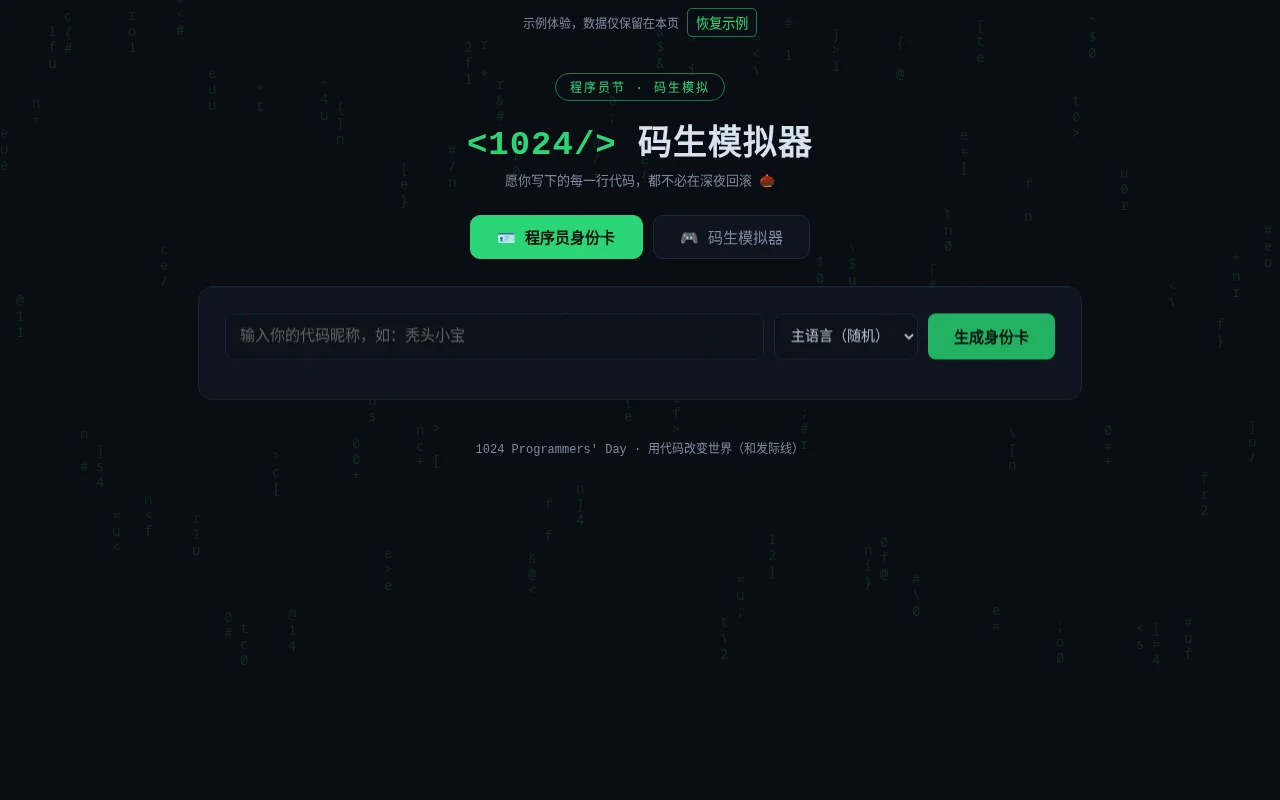
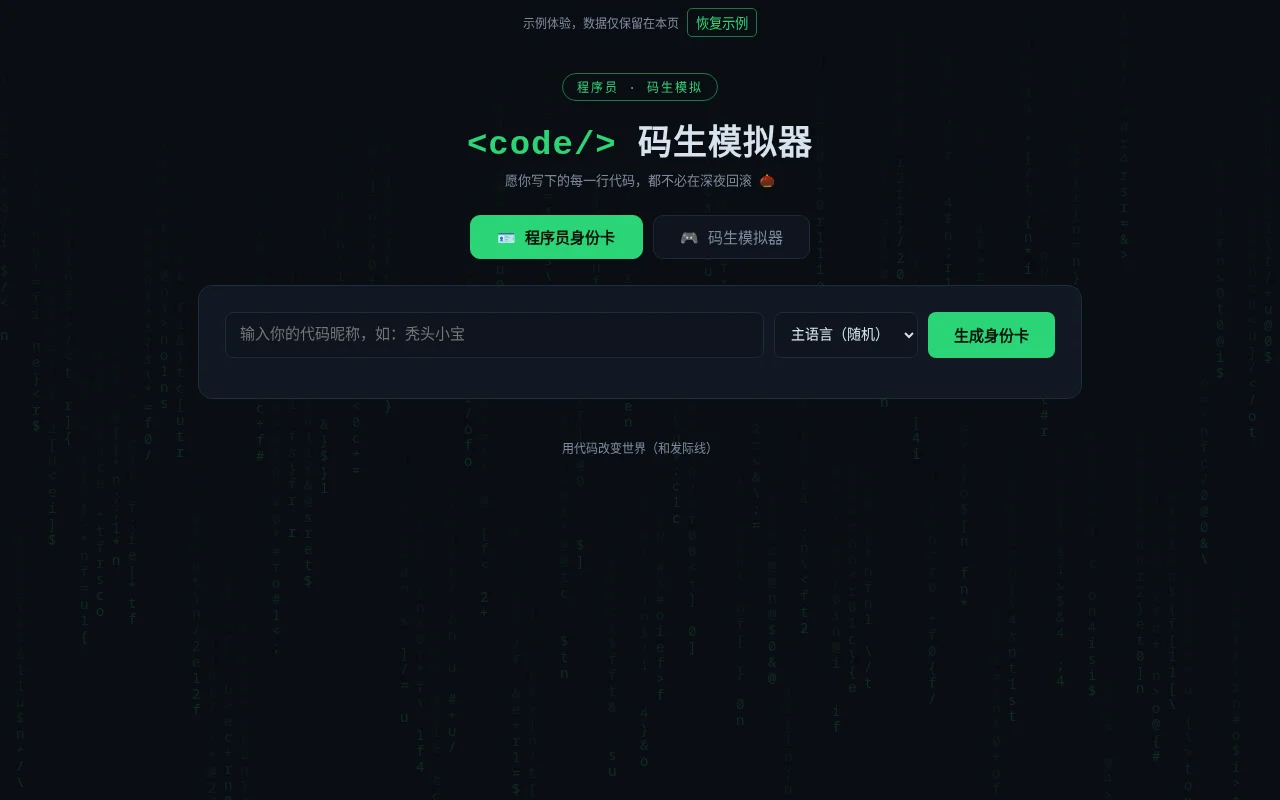
Remove fixed event branding from code life simulator

diff --git a/fb34496dc5909666b55fdc55/showcase/preview.html b/fb34496dc5909666b55fdc55/showcase/preview.html
@@ -89,8 +89,8 @@
 </style></head><body><div style="position:relative;z-index:2;text-align:center;padding:8px;color:#7c8aa0;font:12px monospace">示例体验，数据仅保留在本页 <button id="preview-reset" style="color:#2bd576;background:transparent;border:1px solid #1a7a47;border-radius:5px;padding:4px 8px;cursor:pointer">恢复示例</button></div><canvas id="rain" width="1440" height="900"></canvas>
 <div class="wrap">
   <header>
-    <span class="tag">程序员节 · 码生模拟</span>
-    <h1><span class="num">&lt;1024/&gt;</span> 码生模拟器</h1>
+    <span class="tag">程序员 · 码生模拟</span>
+    <h1><span class="num">&lt;code/&gt;</span> 码生模拟器</h1>
     <p>愿你写下的每一行代码，都不必在深夜回滚 🌰</p>
   </header>
 
@@ -116,8 +116,8 @@
       <div class="idcard" id="idcard">
         <div class="shine"></div>
         <div class="head">
-          <span class="sys">DEV-ID-CARD v10.24</span>
-          <span class="num" id="cardno">NO.1024-0001</span>
+          <span class="sys">DEV-ID-CARD</span>
+          <span class="num" id="cardno">NO.0001</span>
         </div>
         <div class="avatar" id="avatar">🧑💻</div>
         <div class="name" id="cname">—</div>
@@ -159,7 +159,7 @@
     </div>
   </div>
 
-  <footer>1024 Programmers' Day · 用代码改变世界（和发际线）</footer>
+  <footer>用代码改变世界（和发际线）</footer>
 </div>
 
 <script>
@@ -204,7 +204,7 @@ function genCard(){
   document.getElementById('avatar').textContent=emoji;
   document.getElementById('cname').textContent=name;
   document.getElementById('ctitle').textContent=`${lang} · ${ti}`;
-  document.getElementById('cardno').textContent='NO.1024-'+String(hash(name)%9000+1000);
+  document.getElementById('cardno').textContent='NO.'+String(hash(name)%9000+1000);
   document.getElementById('cstats').innerHTML=`
     <div class="stat"><div class="k">⌨ 码龄</div><div class="v">${yrs} 年</div></div>
     <div class="stat"><div class="k">💰 身价</div><div class="v" style="color:var(--amber)">${salary}k/月</div></div>

diff --git a/fb34496dc5909666b55fdc55/src/view.html b/fb34496dc5909666b55fdc55/src/view.html
@@ -1,8 +1,8 @@
 <canvas id="rain" width="1440" height="900"></canvas>
 <div class="wrap">
   <header>
-    <span class="tag">程序员节 · 码生模拟</span>
-    <h1><span class="num">&lt;1024/&gt;</span> 码生模拟器</h1>
+    <span class="tag">程序员 · 码生模拟</span>
+    <h1><span class="num">&lt;code/&gt;</span> 码生模拟器</h1>
     <p>愿你写下的每一行代码，都不必在深夜回滚 🌰</p>
   </header>
 
@@ -28,8 +28,8 @@
       <div class="idcard" id="idcard">
         <div class="shine"></div>
         <div class="head">
-          <span class="sys">DEV-ID-CARD v10.24</span>
-          <span class="num" id="cardno">NO.1024-0001</span>
+          <span class="sys">DEV-ID-CARD</span>
+          <span class="num" id="cardno">NO.0001</span>
         </div>
         <div class="avatar" id="avatar">🧑💻</div>
         <div class="name" id="cname">—</div>
@@ -71,6 +71,6 @@
     </div>
   </div>
 
-  <footer>1024 Programmers' Day · 用代码改变世界（和发际线）</footer>
+  <footer>用代码改变世界（和发际线）</footer>
 </div>
 

diff --git a/fb34496dc5909666b55fdc55/src/app.js b/fb34496dc5909666b55fdc55/src/app.js
@@ -40,7 +40,7 @@ function genCard(){
   document.getElementById('avatar').textContent=emoji;
   document.getElementById('cname').textContent=name;
   document.getElementById('ctitle').textContent=`${lang} · ${ti}`;
-  document.getElementById('cardno').textContent='NO.1024-'+String(hash(name)%9000+1000);
+  document.getElementById('cardno').textContent='NO.'+String(hash(name)%9000+1000);
   document.getElementById('cstats').innerHTML=`
     <div class="stat"><div class="k">⌨ 码龄</div><div class="v">${yrs} 年</div></div>
     <div class="stat"><div class="k">💰 身价</div><div class="v" style="color:var(--amber)">${salary}k/月</div></div>

diff --git a/fb34496dc5909666b55fdc55/spec/product.md b/fb34496dc5909666b55fdc55/spec/product.md
@@ -1,3 +1,3 @@
-# 1024 码生模拟器
+# 码生模拟器
 
 终端绿色界面与动态代码雨。输入最多20字昵称，可选语言，生成稳定身份卡及六项娱乐数值和名言。模拟器从四项初值出发，依次提供十次二选一，展示事件日志、数值变化和结束卡，支持重来。每次选择年份增加2，结束显示二十年后。仅页面内状态，刷新及重新打开重置；无数据库或文件操作。适配桌面及窄屏。

diff --git a/fb34496dc5909666b55fdc55/showcase/prompt.md b/fb34496dc5909666b55fdc55/showcase/prompt.md
@@ -1,3 +1,3 @@
-# 1024 码生模拟器
+# 码生模拟器
 
 使用 `tiana web init-template fb34496dc5909666b55fdc55` 获取源码。保留昵称身份卡、十次选择的职业模拟、终端绿色界面和代码雨，可继续定制称号与事件。

diff --git a/fb34496dc5909666b55fdc55/README.md b/fb34496dc5909666b55fdc55/README.md
@@ -1,4 +1,4 @@
-# 1024 码生模拟器
+# 码生模拟器
 
 输入昵称生成程序员身份卡，或通过十次选择体验码生。浏览器内运行；刷新或重新打开后重新开始。
 
